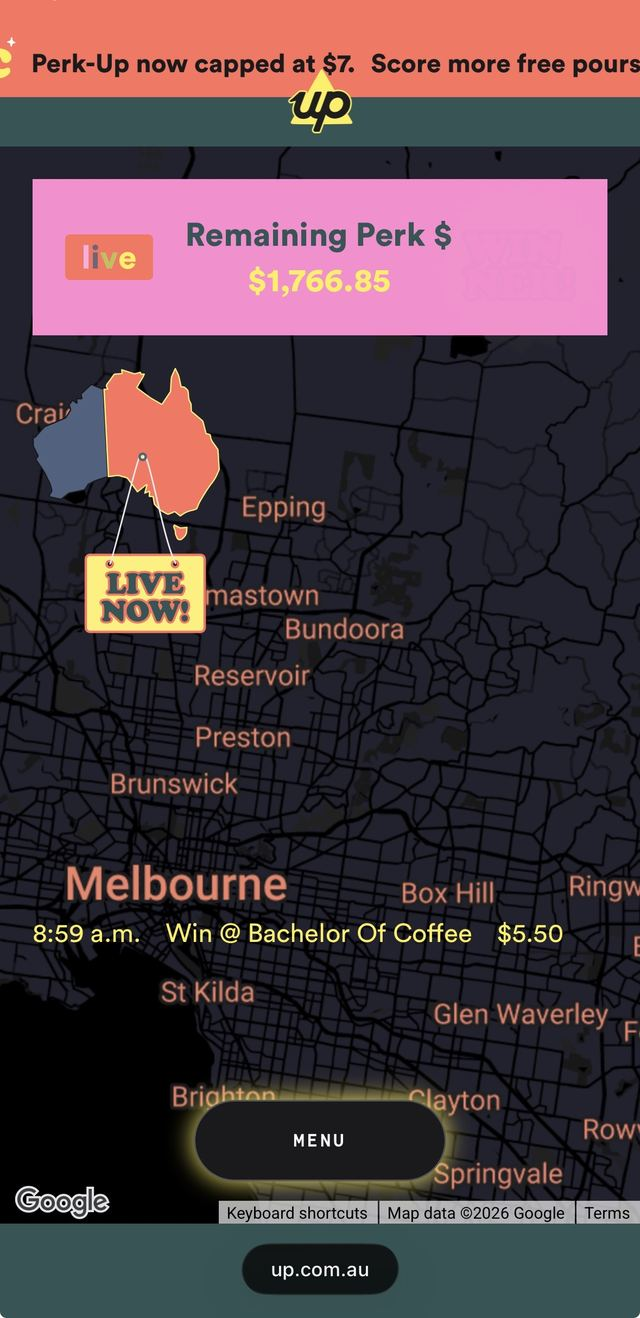
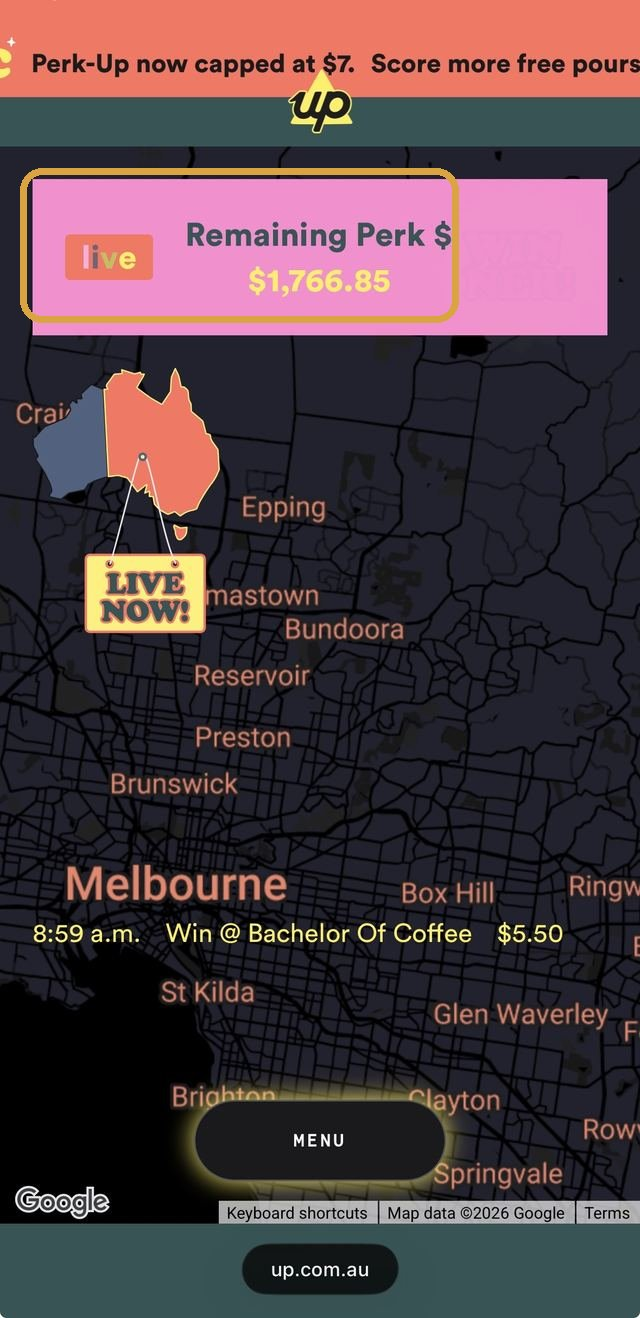
Chunk Up Bank prose into scannable pairs, annotate all screenshots
Every mechanism block now splits into a "The feature." / "The mechanism."
pair (the closing "Where it could go further" section into four:
first gap, fix, second gap, fix), matching the bold-lead-in chunking
convention already used in experiment blueprints.

Every screenshot now carries a mustard callout, drawn directly on the
real image, pointing at the exact UI element the prose is describing:
the boxed inbox row, the boxed product card, the boxed progress bar, the
four numbered Home Zone tiles, the boxed prize pool, and a new duplicate
of the Perk-Up live page for Social Proof with its own box on the win
ticker line instead of the pool counter, since the two mechanisms share
one screenshot but point at different parts of it.

Changed region(s): [[0.0312, 0.1244, 0.7188, 0.2489]]

diff --git a/mockup/science-behind.html b/mockup/science-behind.html
@@ -651,36 +651,44 @@
 
     <div class="sb-block">
       <span class="k">Loss Aversion</span>
-      <div class="sb-screenshot"><img src="images/up-bonus-interest-nudge.jpg" alt="Up's 'Talk to us' inbox showing a proactive 'Bonus Interest Qualification' message warning a customer they haven't yet qualified" loading="lazy"><span>A proactive nudge, sent before the bonus lapses</span></div>
-      <p>Up's own Savers now carry a bonus-rate condition of the same shape GoalSaver uses, tied to real activity in the calendar month. What makes Up's version notable is what happens before the condition is missed: its &ldquo;Talk to us&rdquo; inbox sends a proactive &ldquo;Bonus Interest Qualification&rdquo; message partway through the month, warning a customer they haven't yet met it. That's <a href="principles.html#loss-aversion">Loss Aversion</a> handled honestly: the bank could just let the bonus quietly lapse and keep the difference, the way the mechanism alone would predict. Instead it spends a notification telling the customer exactly how to avoid the loss it's already framed as theirs.</p>
+      <div class="sb-screenshot"><img src="images/up-bonus-interest-nudge.jpg" alt="Up's 'Talk to us' inbox, the 'Bonus Interest Qualification' row boxed, warning a customer they haven't yet qualified" loading="lazy"><span>Boxed: the proactive nudge, sent before the bonus lapses</span></div>
+      <p><b>The feature.</b> Up's own Savers now carry a bonus-rate condition of the same shape GoalSaver uses, tied to real activity in the calendar month. What makes Up's version notable is what happens before the condition is missed: its &ldquo;Talk to us&rdquo; inbox sends a proactive &ldquo;Bonus Interest Qualification&rdquo; message partway through the month, warning a customer they haven't yet met it.</p>
+      <p><b>The mechanism.</b> That's <a href="principles.html#loss-aversion">Loss Aversion</a> handled honestly. The bank could just let the bonus quietly lapse and keep the difference, the way the mechanism alone would predict. Instead it spends a notification telling the customer exactly how to avoid the loss it's already framed as theirs.</p>
     </div>
     <div class="sb-block">
       <span class="k">Precommitment Devices</span>
-      <p>Locked Savers let a customer lock a Saver behind a real, if modest, obstacle: a 3-hour delay before the money becomes accessible again, with an option to nominate a mate on Up who can unlock it early if asked. That's <a href="principles.html#precommitment-devices">Precommitment Devices</a>, minus the paperwork: a real, felt friction attached in advance to a future withdrawal, decided by a calmer version of the customer before the moment of temptation exists. The mate-key option adds a second, social layer on top, asking someone else to break the lock costs more than tapping a button ever would.</p>
+      <p><b>The feature.</b> Locked Savers let a customer lock a Saver behind a real, if modest, obstacle: a 3-hour delay before the money becomes accessible again, with an option to nominate a mate on Up who can unlock it early if asked.</p>
+      <p><b>The mechanism.</b> That's <a href="principles.html#precommitment-devices">Precommitment Devices</a>, minus the paperwork: a real, felt friction attached in advance to a future withdrawal, decided by a calmer version of the customer before the moment of temptation exists. The mate-key option adds a second, social layer on top: asking someone else to break the lock costs more than tapping a button ever would.</p>
     </div>
     <div class="sb-block">
       <span class="k">Mental Accounting</span>
-      <div class="sb-screenshot"><img src="images/up-maybuys-goal.jpg" alt="Up's Maybuys feature: 'Save Now, Maybuy Later', saving toward a real photo of a specific coffee machine part" loading="lazy"><span>Saving toward a photo of the actual thing, not a number</span></div>
-      <p>Up's Savers can be named and given an emoji, up to 50 of them, so a balance reads as &ldquo;Home Deposit&rdquo; or &ldquo;Holiday&rdquo; rather than an undifferentiated number. Maybuys takes this further: instead of a named account, it saves toward a photo of the actual product a customer wants, imported straight from a listing, &ldquo;while letting you change your mind at any time.&rdquo; That's <a href="principles.html#mental-accounting">Mental Accounting</a> with a genuinely concrete anchor: money filed against a real, pictured thing is harder to casually spend than money sitting in a plain, unlabelled balance.</p>
+      <div class="sb-screenshot"><img src="images/up-maybuys-goal.jpg" alt="Up's Maybuys feature, the product card boxed: 'Save Now, Maybuy Later', saving toward a real photo of a specific coffee machine part" loading="lazy"><span>Boxed: a photo of the actual thing, not a number</span></div>
+      <p><b>The feature.</b> Up's Savers can be named and given an emoji, up to 50 of them, so a balance reads as &ldquo;Home Deposit&rdquo; or &ldquo;Holiday&rdquo; rather than an undifferentiated number. Maybuys takes this further: instead of a named account, it saves toward a photo of the actual product a customer wants, imported straight from a listing, &ldquo;while letting you change your mind at any time.&rdquo;</p>
+      <p><b>The mechanism.</b> That's <a href="principles.html#mental-accounting">Mental Accounting</a> with a genuinely concrete anchor: money filed against a real, pictured thing is harder to casually spend than money sitting in a plain, unlabelled balance.</p>
     </div>
     <div class="sb-block">
       <span class="k">Goal Gradient Effect</span>
-      <div class="sb-screenshot"><img src="images/up-savers-progress.jpg" alt="Up's Savers list, each Saver shown with its own progress bar against a real target, including a Home deposit Saver at $0 of $157,100" loading="lazy"><span>Every Saver carries its own visible progress bar</span></div>
-      <p>Every Saver on Up renders its own progress bar against its real target, right there in the account list, not buried a tap away. That's the same mechanism <a href="principles.html#goal-gradient">Goal Gradient Effect</a> documents in a coffee card: effort and follow-through increase as the visible distance to the finish line shrinks, not because the goal itself changed, but because how close it looks did. A $0-of-$157,100 bar and a $140,000-of-$157,100 bar describe the identical remaining task very differently.</p>
+      <div class="sb-screenshot"><img src="images/up-savers-progress.jpg" alt="Up's Savers list, the Home deposit row boxed: its own progress bar against a real target, at $0 of $157,100" loading="lazy"><span>Boxed: the one Saver still at $0 of its target</span></div>
+      <p><b>The feature.</b> Every Saver on Up renders its own progress bar against its real target, right there in the account list, not buried a tap away.</p>
+      <p><b>The mechanism.</b> That's the same mechanism <a href="principles.html#goal-gradient">Goal Gradient Effect</a> documents in a coffee card: effort and follow-through increase as the visible distance to the finish line shrinks, not because the goal itself changed, but because how close it looks did. A $0-of-$157,100 bar and a $140,000-of-$157,100 bar describe the identical remaining task very differently.</p>
     </div>
     <div class="sb-block">
       <span class="k">Chunking</span>
-      <div class="sb-screenshot"><img src="images/up-home-zone-chunked.jpg" alt="Up Home's borrowing-power intake broken into four labelled categories: Your Deposit, Your Home, You, Your Finances" loading="lazy"><span>One long form, split into four labelled steps</span></div>
-      <p>Up Home's borrowing-power tool, The Home Zone, never presents itself as one long financial-disclosure form. It's split into four labelled categories (Your Deposit, Your Home, You, Your Finances), and the deposit goal itself gets the same treatment: a $157,100 target becomes &ldquo;$2,618.34 every fortnight,&rdquo; with a specific projected date attached. That's <a href="principles.html#chunking">Chunking</a> applied twice in the same flow, once to the intake task, once to the number itself: a large ask broken into several smaller ones clears a mental bar the whole amount, presented at once, wouldn't.</p>
+      <div class="sb-screenshot"><img src="images/up-home-zone-chunked.jpg" alt="Up Home's borrowing-power intake, numbered 1 to 4: Your Deposit, Your Home, You, Your Finances" loading="lazy"><span>Numbered: one long form, split into four labelled steps</span></div>
+      <p><b>The feature.</b> Up Home's borrowing-power tool, The Home Zone, never presents itself as one long financial-disclosure form. It's split into four labelled categories (Your Deposit, Your Home, You, Your Finances), and the deposit goal itself gets the same treatment: a $157,100 target becomes &ldquo;$2,618.34 every fortnight,&rdquo; with a specific projected date attached.</p>
+      <p><b>The mechanism.</b> That's <a href="principles.html#chunking">Chunking</a> applied twice in the same flow: once to the intake task, once to the number itself. A large ask broken into several smaller ones clears a mental bar the whole amount, presented at once, wouldn't.</p>
     </div>
     <div class="sb-block">
       <span class="k">Scarcity</span>
-      <div class="sb-screenshot"><img src="images/up-perkup-live-map.jpg" alt="Up's Perk-Up live web page: a depleting 'Remaining Perk $1,766.85' pool and a real-time map of Australia showing where wins are happening" loading="lazy"><span>A shared prize pool, visibly draining in real time</span></div>
-      <p>Perk-Up refunds one small coffee purchase (up to $5) per person, per eligible weekday morning, on a promotional pool with a real, published cap. Up's live tracking page shows that pool as a single number counting down in real time, &ldquo;Remaining Perk $1,766.85&rdquo; ticking lower as more people win. That's <a href="principles.html#scarcity">Scarcity</a> made literal instead of implied: the reward isn't just occasionally available, it's visibly, numerically running out, which is a different and stronger cue than a flat &ldquo;while supplies last.&rdquo;</p>
+      <div class="sb-screenshot"><img src="images/up-perkup-live-map.jpg" alt="Up's Perk-Up live web page, the 'Remaining Perk $1,766.85' pool boxed, above a real-time map of where wins are happening" loading="lazy"><span>Boxed: the pool, ticking down in real time</span></div>
+      <p><b>The feature.</b> Perk-Up refunds one small coffee purchase (up to $5) per person, per eligible weekday morning, on a promotional pool with a real, published cap. Up's live tracking page shows that pool as a single number counting down in real time: &ldquo;Remaining Perk $1,766.85,&rdquo; ticking lower as more people win.</p>
+      <p><b>The mechanism.</b> That's <a href="principles.html#scarcity">Scarcity</a> made literal instead of implied. The reward isn't just occasionally available, it's visibly, numerically running out, which is a different and stronger cue than a flat &ldquo;while supplies last.&rdquo;</p>
     </div>
     <div class="sb-block">
       <span class="k">Social Proof</span>
-      <p>The same live page pairs that draining pool with a real-time win ticker: &ldquo;8:59am, Win @ Bachelor Of Coffee, $5.50,&rdquo; refreshing as it happens, plotted on a map. That's <a href="principles.html#social-proof">Social Proof</a> running alongside the scarcity cue rather than instead of it: seeing that real people, nearby, are winning right now makes trying feel more worthwhile than a static promotional banner claiming the same odds ever could.</p>
+      <div class="sb-screenshot"><img src="images/up-perkup-social-proof.jpg" alt="The same Perk-Up live page, the real-time win ticker boxed: '8:59 a.m., Win at Bachelor Of Coffee, $5.50'" loading="lazy"><span>Boxed: a real win, timestamped, minutes ago</span></div>
+      <p><b>The feature.</b> The same live page pairs that draining pool with a real-time win ticker: &ldquo;8:59am, Win @ Bachelor Of Coffee, $5.50,&rdquo; refreshing as it happens, plotted on a map.</p>
+      <p><b>The mechanism.</b> That's <a href="principles.html#social-proof">Social Proof</a> running alongside the scarcity cue, not instead of it: seeing that real people, nearby, are winning right now makes trying feel more worthwhile than a static promotional banner claiming the same odds ever could.</p>
     </div>
 
     <div class="sb-split">
@@ -711,9 +719,11 @@
 
     <div class="sb-block">
       <span class="k">Where it could go further</span>
-      <div class="sb-screenshot"><img src="images/up-swipe-create-saver.jpg" alt="Up Home's final confirmation screen for a deposit Saver: a deliberate 'Swipe to create saver' gesture rather than a single tap" loading="lazy"><span>The one moment Up adds friction on purpose</span></div>
-      <p>Two genuine gaps, both grounded in what Up already does well elsewhere on its own app, not a generic outsider's wishlist. First: the same &ldquo;Talk to us&rdquo; inbox that proactively warns a customer before they lose bonus interest also shows several separate &ldquo;Spending account overdrawn&rdquo; alerts to the same account over several months, each one reactive, sent after the overdraft already happened. Up has already proven, with the bonus-interest nudge, that it can warn a customer before a real cost lands. Applying that identical pattern to a low-balance warning before an overdraft, not just a notice after, would extend a mechanism Up has already validated rather than inventing a new one.</p>
-      <p>Second: Locked Savers uses one fixed 3-hour delay for every Saver, regardless of size or purpose. That's not a flaw to simply loosen, this site's own citation for Precommitment Devices (Ariely &amp; Wertenbroch, 2002) found that externally-set constraints reliably outperform ones people set for themselves, so making the delay user-adjustable would risk undermining the exact mechanism it relies on. A more consistent extension would keep the delay externally set but tier it by stake: the existing 3 hours for everyday Savers, a longer bank-set default (a day, say) for a large, slow goal like a Home Deposit Saver, where a coffee-purchase-sized obstacle is a much smaller relative barrier than it is on a smaller balance.</p>
+      <div class="sb-screenshot"><img src="images/up-swipe-create-saver.jpg" alt="Up Home's final confirmation screen for a deposit Saver, the 'Swipe to create saver' gesture boxed" loading="lazy"><span>Boxed: the one moment Up adds friction on purpose</span></div>
+      <p><b>The first gap.</b> The same &ldquo;Talk to us&rdquo; inbox that proactively warns a customer before they lose bonus interest also shows several separate &ldquo;Spending account overdrawn&rdquo; alerts to the same account over several months, each one reactive, sent after the overdraft already happened.</p>
+      <p><b>The fix.</b> Up has already proven, with the bonus-interest nudge, that it can warn a customer before a real cost lands. Applying that identical pattern to a low-balance warning before an overdraft, not just a notice after, would extend a mechanism Up has already validated rather than inventing a new one.</p>
+      <p><b>The second gap.</b> Locked Savers uses one fixed 3-hour delay for every Saver, regardless of size or purpose. That's not a flaw to simply loosen: this site's own citation for Precommitment Devices (Ariely &amp; Wertenbroch, 2002) found that externally-set constraints reliably outperform ones people set for themselves, so making the delay user-adjustable would risk undermining the exact mechanism it relies on.</p>
+      <p><b>The fix.</b> A more consistent extension would keep the delay externally set but tier it by stake: the existing 3 hours for everyday Savers, a longer bank-set default (a day, say) for a large, slow goal like a Home Deposit Saver, where a coffee-purchase-sized obstacle is a much smaller relative barrier than it is on a smaller balance.</p>
     </div>
 
     <div class="sb-sources">
